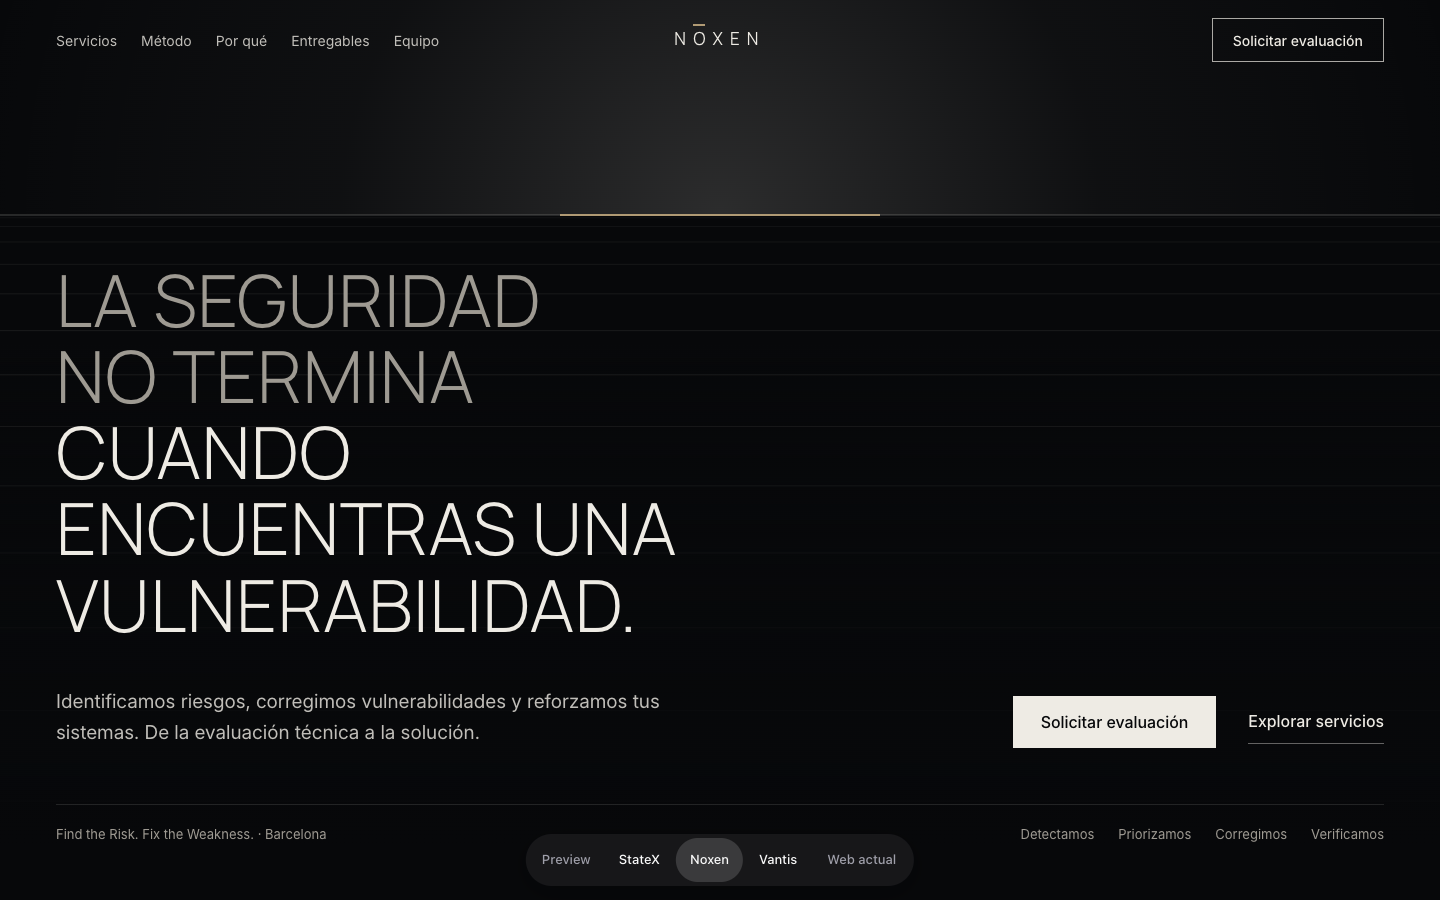
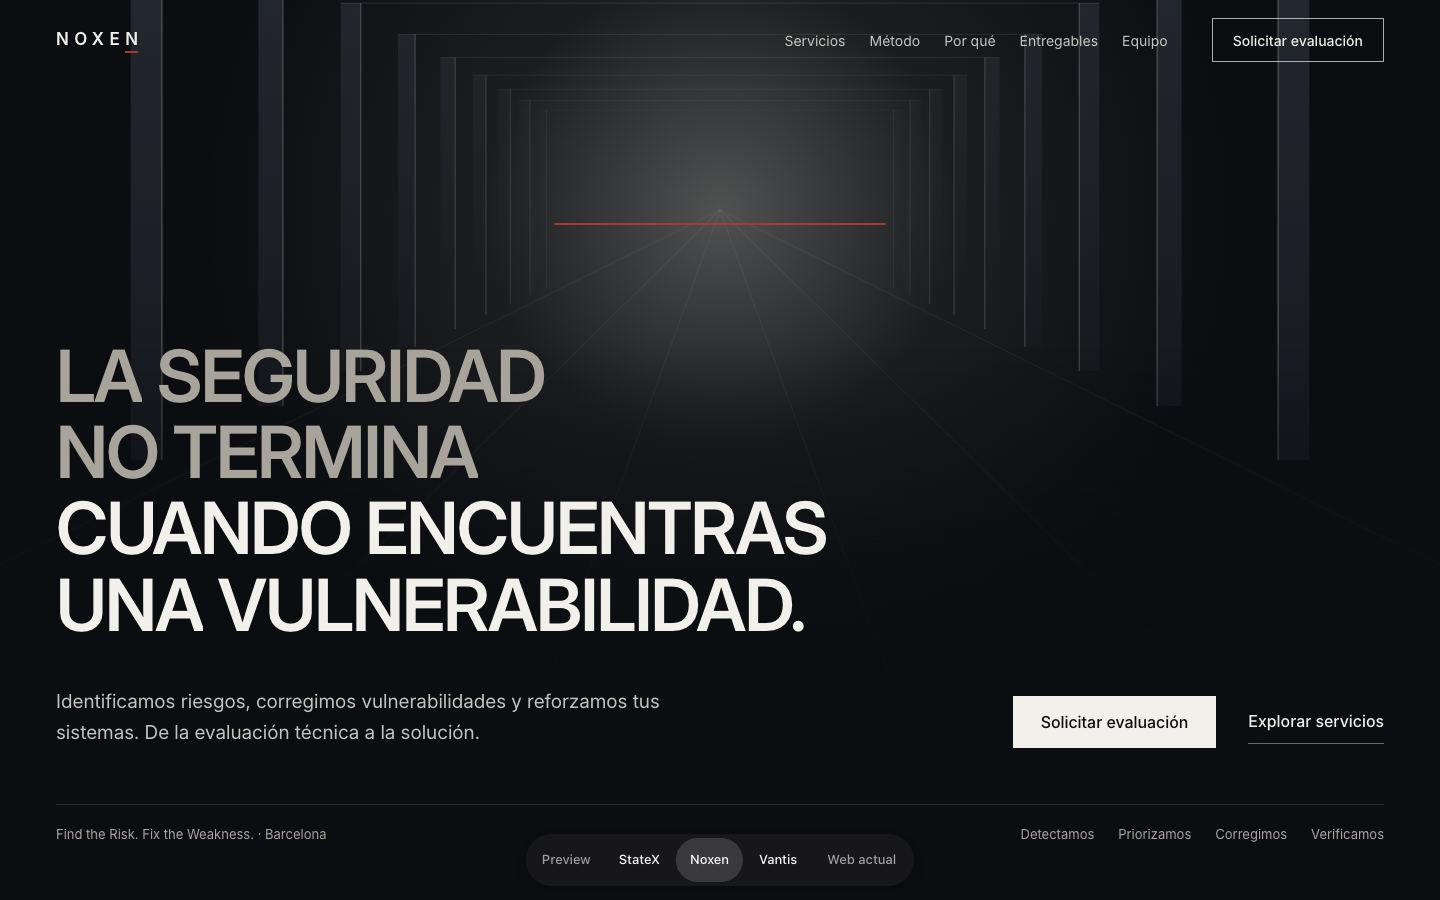
Previews de identidad con el diseño de StateX: solo cambia el nombre
Noxen y Vantis dejan de tener paleta, fuente, cabecera y escena propias;
el logotipo aplica el tratamiento de STATEX a cada nombre.

diff --git a/app/_site/Header.tsx b/app/_site/Header.tsx
@@ -6,20 +6,18 @@ import { brand as statex, cta, nav } from "./content";
 import { Wordmark, caps, focus } from "./ui";
 
 // `logo` llega ya renderizado desde el servidor (Shell): así este componente de cliente no contiene otros nombres de marca.
-type HeaderBrand = { logo: ReactNode; name: string; tagline: string; layout: "standard" | "centered" | "ledger" };
+type HeaderBrand = { logo: ReactNode; name: string };
 
 /**
  * Transparente sobre el hero; al hacer scroll pasa a Obsidiana sólida con filete inferior (sin cristal ni desenfoque).
  * `base` = "" en la home (anclas en la misma página) y "/" en las páginas interiores (vuelven a la home).
- * `brand` solo lo pasan las previews de /preview: "centered" centra el logotipo entre navegación y CTA;
- * "ledger" añade una franja superior con ubicación y tagline, que se recoge al hacer scroll.
+ * `brand` solo lo pasan las previews de /preview: cambia el logotipo y el nombre accesible, nada más.
  */
 export function Header({ base = "", items = nav, brand }: { base?: "" | "/"; items?: { href: string; label: string }[]; brand?: HeaderBrand }) {
   const [solid, setSolid] = useState(false);
   const [open, setOpen] = useState(false);
   const panelId = useId();
   const btn = useRef<HTMLButtonElement>(null);
-  const layout = brand?.layout ?? "standard";
 
   useEffect(() => {
     const onScroll = () => setSolid(window.scrollY > 24);
@@ -49,13 +47,13 @@ export function Header({ base = "", items = nav, brand }: { base?: "" | "/"; ite
   const link = `relative inline-flex min-h-11 items-center px-3 text-[14px] text-(--h-ivory)/80 transition-colors hover:text-(--h-ivory) after:absolute after:inset-x-3 after:bottom-2.5 after:h-px after:origin-left after:scale-x-0 after:bg-(--h-red) after:transition-transform hover:after:scale-x-100 motion-reduce:after:transition-none ${focus}`;
 
   const logo = (
-    <a href={base || "#inicio"} aria-label={`${brand?.name ?? statex.name}, inicio`} className={`text-[15px] sm:text-[17px] ${layout === "centered" ? "lg:justify-self-center" : ""} ${focus}`}>
+    <a href={base || "#inicio"} aria-label={`${brand?.name ?? statex.name}, inicio`} className={`text-[15px] sm:text-[17px] ${focus}`}>
       {brand?.logo ?? <Wordmark />}
     </a>
   );
   const links = (
-    <nav aria-label="Principal" className={layout === "centered" ? "hidden lg:block" : "ml-auto hidden lg:block"}>
-      <ul className={`m-0 flex list-none p-0 ${layout === "centered" ? "-ml-3" : ""}`}>
+    <nav aria-label="Principal" className="ml-auto hidden lg:block">
+      <ul className="m-0 flex list-none p-0">
         {items.map((n) => (
           <li key={n.href}>
             <a href={href(n.href)} className={link}>{n.label}</a>
@@ -65,7 +63,7 @@ export function Header({ base = "", items = nav, brand }: { base?: "" | "/"; ite
     </nav>
   );
   const actions = (
-    <div className={`ml-auto flex items-center gap-2 sm:gap-4 ${layout === "centered" ? "lg:ml-0 lg:justify-self-end" : "lg:ml-4"}`}>
+    <div className="ml-auto flex items-center gap-2 sm:gap-4 lg:ml-4">
       <a
         href={href("#contacto")}
         className={`inline-flex min-h-11 items-center whitespace-nowrap border border-(--h-ivory)/70 px-3 text-[13px] font-medium transition-colors hover:border-(--h-ivory) hover:bg-(--h-ivory) hover:text-(--h-ink) motion-reduce:transition-none sm:px-5 sm:text-[14px] ${focus}`}
@@ -92,32 +90,10 @@ export function Header({ base = "", items = nav, brand }: { base?: "" | "/"; ite
         filled ? "border-(--h-line) bg-(--h-ink)" : "border-transparent bg-transparent"
       }`}
     >
-      {layout === "ledger" && brand && (
-        <div hidden={filled} className="border-b border-(--h-line) max-lg:hidden">
-          <p className="mx-auto m-0 flex h-9 w-full max-w-[1440px] items-center justify-between px-14 text-[13px] text-(--h-titanium)">
-            <span>Barcelona · Consultoría de ciberseguridad y desarrollo seguro</span>
-            <span>{brand.tagline}</span>
-          </p>
-        </div>
-      )}
-      <div
-        className={`mx-auto flex h-18 w-full max-w-[1440px] items-center gap-2 px-4 sm:h-20 sm:gap-4 sm:px-8 lg:px-14 ${
-          layout === "centered" ? "lg:grid lg:grid-cols-[1fr_auto_1fr]" : ""
-        }`}
-      >
-        {layout === "centered" ? (
-          <>
-            {links}
-            {logo}
-            {actions}
-          </>
-        ) : (
-          <>
-            {logo}
-            {links}
-            {actions}
-          </>
-        )}
+      <div className="mx-auto flex h-18 w-full max-w-[1440px] items-center gap-2 px-4 sm:h-20 sm:gap-4 sm:px-8 lg:px-14">
+        {logo}
+        {links}
+        {actions}
       </div>
 
       <div id={panelId} hidden={!open} className="fixed inset-x-0 bottom-0 top-18 overflow-y-auto bg-(--h-ink) sm:top-20 lg:hidden">

diff --git a/app/_site/identities/BrandMark.tsx b/app/_site/identities/BrandMark.tsx
@@ -1,25 +1,20 @@
 import { Wordmark, type IdentityKey } from "../ui";
 
-// Logotipos de las previews. Solo lo importan componentes de servidor (Shell, Report): así los nombres
-// de marca en estudio no viajan en el JavaScript público de la web de producción. El acento es var(--h-red).
+// Logotipos de las previews, con el mismo tratamiento que STATEX: mayúsculas, interletrado amplio y la línea
+// roja bajo la última letra. Solo lo importan componentes de servidor (Shell, Report), así los nombres en
+// estudio no viajan en el JavaScript público de la web de producción.
+const NAMES: Record<Exclude<IdentityKey, "statex">, string> = { noxen: "Noxe", vantis: "Vanti" };
+const LAST: Record<Exclude<IdentityKey, "statex">, string> = { noxen: "N", vantis: "S" };
+
 export function BrandMark({ className = "", identity = "statex" }: { className?: string; identity?: IdentityKey }) {
-  if (identity === "noxen")
-    return (
-      <span className={`inline-flex items-baseline font-normal uppercase leading-none tracking-[0.42em] [font-family:var(--h-display)] ${className}`}>
-        N
-        <span className="relative">
-          O
-          <span aria-hidden="true" className="absolute -top-[0.34em] left-0 right-[0.42em] h-[0.08em] min-h-px bg-(--h-red)" />
-        </span>
-        XEN
+  if (identity === "statex") return <Wordmark className={className} />;
+  return (
+    <span className={`inline-flex items-baseline font-semibold uppercase leading-none tracking-[0.32em] ${className}`}>
+      {NAMES[identity]}
+      <span className="relative">
+        {LAST[identity]}
+        <span aria-hidden="true" className="absolute -bottom-[0.28em] left-0 right-[0.32em] h-[0.09em] min-h-px bg-(--h-red)" />
       </span>
-    );
-  if (identity === "vantis")
-    return (
-      <span className={`inline-flex items-baseline gap-[0.12em] text-[1.18em] font-medium leading-none tracking-[-0.01em] [font-family:var(--h-display)] ${className}`}>
-        Vantis
-        <span aria-hidden="true" className="inline-block size-[0.2em] min-h-[3px] min-w-[3px] bg-(--h-red)" />
-      </span>
-    );
-  return <Wordmark className={className} />;
+    </span>
+  );
 }

diff --git a/app/_site/Hero.tsx b/app/_site/Hero.tsx
@@ -4,7 +4,6 @@ import { useRef } from "react";
 import { motion, useReducedMotion, useScroll, useTransform } from "motion/react";
 import { cta, hero, services } from "./content";
 import { display, focus, wrap } from "./ui";
-import { HorizonScene, LedgerScene } from "./HeroScenes";
 
 // Escena: una nave de pórticos en perspectiva central (un solo punto de fuga), como un pasillo
 // de infraestructura visto de frente. Al fondo, la línea roja: el umbral que StateX vigila.
@@ -88,16 +87,14 @@ type HeroProps = {
   body?: string;
   // Franja inferior: texto a la izquierda y lista breve a la derecha.
   strip?: { lead: string; items: string[] };
-  scene?: "corridor" | "horizon" | "ledger";
   size?: string; // tamaño del titular (clases de Tailwind)
 };
 
-/** Sin props es el hero de producción; las previews de identidad cambian copy, franja y escena. */
+/** Sin props es el hero de producción; las previews de identidad cambian el copy y la franja. */
 export function Hero({
   lines = hero.lines,
   body = hero.body,
   strip = { lead: hero.audience, items: services.map((s) => s.short) },
-  scene = "corridor",
   size = "text-[clamp(2.1rem,5.6vw,5.75rem)]",
 }: HeroProps = {}) {
   const reduce = !!useReducedMotion();
@@ -113,7 +110,7 @@ export function Hero({
       <motion.div
         className="absolute inset-0 -z-10 max-sm:bottom-auto max-sm:h-[56svh] max-sm:[mask-image:linear-gradient(to_bottom,black_65%,transparent)]"
         style={reduce ? undefined : { scale, opacity: dim }}>
-        {scene === "horizon" ? <HorizonScene reduce={reduce} /> : scene === "ledger" ? <LedgerScene reduce={reduce} /> : <Scene reduce={reduce} />}
+        <Scene reduce={reduce} />
       </motion.div>
       {/* Velo inferior para que el texto se lea sobre la escena */}
       <div aria-hidden="true" className="absolute inset-0 -z-10 bg-[linear-gradient(to_top,var(--h-ink)_6%,color-mix(in_srgb,var(--h-ink)_78%,transparent)_34%,transparent_62%)]" />

diff --git a/app/_site/identities/vantis.ts b/app/_site/identities/vantis.ts
@@ -1,34 +1,4 @@
-import { Newsreader } from "next/font/google";
 import type { Identity } from "./types";
 
-// C · Vantis — Corporate Intelligence. Nombre de fantasía; su lectura («vantage», anticipación) es una
-// interpretación de marca, no una definición. Azul noche, gris piedra, blanco y titulares editoriales con serifa.
-const newsreader = Newsreader({ subsets: ["latin", "latin-ext"], axes: ["opsz"], variable: "--font-vantis", display: "swap" });
-
-export const vantis: Identity = {
-  key: "vantis",
-  name: "Vantis",
-  tagline: "Security Beyond Detection.",
-  direction: "Corporate Intelligence",
-  concept: "Anticipación, visión estratégica y confianza.",
-  fontClass: newsreader.variable,
-  tokens: {
-    "--h-ink": "#0C1524", // azul noche
-    "--h-graphite": "#142036",
-    "--h-ivory": "#F4F3EF",
-    "--h-titanium": "#A7A9AC", // gris piedra: 6,8:1 sobre #142036
-    "--h-red": "#6F9BD8", // acento: azul señal (solo líneas, nunca texto)
-    "--h-red-text": "#F08C82",
-    "--h-line": "rgba(244,243,239,0.13)",
-    "--h-stone": "#545A63",
-    "--h-paper-line": "rgba(12,21,36,0.14)",
-    "--h-display": "var(--font-vantis)",
-    "--h-display-weight": "400",
-    "--h-title-weight": "500",
-    "--h-display-case": "none",
-    "--h-display-tracking": "-0.015em",
-  } as Identity["tokens"],
-  themeColor: "#0C1524",
-  hero: "ledger",
-  header: "ledger",
-};
+// C · Vantis: nombre de fantasía; su lectura («vantage», anticipación) es una interpretación de marca, no una definición.
+export const vantis: Identity = { key: "vantis", name: "Vantis", tagline: "Security Beyond Detection.", concept: "Anticipación, visión estratégica y confianza." };

diff --git a/app/_site/identities/noxen.ts b/app/_site/identities/noxen.ts
@@ -1,31 +1,4 @@
-import { Manrope } from "next/font/google";
 import type { Identity } from "./types";
 
-// B · Noxen — Dark Precision. Nombre de fantasía inspirado en «nox» (noche, en latín); la terminación
-// «-en» es una decisión creativa. Negro más profundo, blanco cálido y un acento metálico (bronce) muy contenido.
-const manrope = Manrope({ subsets: ["latin", "latin-ext"], variable: "--font-noxen", display: "swap" });
-
-export const noxen: Identity = {
-  key: "noxen",
-  name: "Noxen",
-  tagline: "Find the Risk. Fix the Weakness.",
-  direction: "Dark Precision",
-  concept: "Discreción, inteligencia, protección y precisión.",
-  fontClass: manrope.variable,
-  tokens: {
-    "--h-ink": "#07080A",
-    "--h-graphite": "#15171B",
-    "--h-ivory": "#EEEBE4",
-    "--h-titanium": "#9E9A92", // 6,4:1 sobre grafito
-    "--h-red": "#B09A74", // acento: bronce satinado (solo líneas, nunca texto)
-    "--h-line": "rgba(238,235,228,0.12)",
-    "--h-display": "var(--font-noxen)",
-    "--h-display-weight": "300",
-    "--h-title-weight": "500",
-    "--h-display-case": "uppercase",
-    "--h-display-tracking": "0.01em",
-  } as Identity["tokens"],
-  themeColor: "#07080A",
-  hero: "horizon",
-  header: "centered",
-};
+// B · Noxen: nombre de fantasía inspirado en «nox» (noche, en latín); la terminación «-en» es una decisión creativa.
+export const noxen: Identity = { key: "noxen", name: "Noxen", tagline: "Find the Risk. Fix the Weakness.", concept: "Discreción, inteligencia, protección y precisión." };

diff --git a/app/_site/Shell.tsx b/app/_site/Shell.tsx
@@ -88,8 +88,8 @@ export function Shell({
 }) {
   return (
     <div
-      style={identity ? { ...tokens, ...identity.tokens } : tokens}
-      className={`${inter.variable} ${identity?.fontClass ?? ""} min-h-dvh overflow-x-clip bg-(--h-ink) font-(family-name:--h-sans) text-(--h-ivory) antialiased selection:bg-(--h-red) selection:text-(--h-ivory)`}
+      style={tokens}
+      className={`${inter.variable} min-h-dvh overflow-x-clip bg-(--h-ink) font-(family-name:--h-sans) text-(--h-ivory) antialiased selection:bg-(--h-red) selection:text-(--h-ivory)`}
     >
       <a href="#contenido" className="sr-only z-[60] bg-(--h-ivory) px-4 py-3 text-(--h-ink) focus:not-sr-only focus:fixed focus:left-4 focus:top-4">
         Saltar al contenido
@@ -97,7 +97,7 @@ export function Shell({
       <Header
         base={base}
         items={navItems}
-        brand={identity ? { logo: <BrandMark identity={identity.key} />, name: identity.name, tagline: identity.tagline, layout: identity.header } : undefined}
+        brand={identity ? { logo: <BrandMark identity={identity.key} />, name: identity.name } : undefined}
       />
       <main id="contenido">{children}</main>
       <Footer base={base} identity={identity} items={navItems} />

diff --git a/app/_site/identities/types.ts b/app/_site/identities/types.ts
@@ -1,20 +1,10 @@
-import type { CSSProperties } from "react";
 import type { IdentityKey } from "../ui";
 
-// Identidad de marca para las previews de /preview/<clave>. Comparten contenido, componentes y
-// lógica comercial con la web pública; solo cambian nombre, tokens, tipografía, cabecera y escena del hero.
-// La web de producción (/) no usa nada de esta carpeta.
+// Nombre de marca para las previews de /preview/<clave>. Las tres usan el diseño de StateX tal cual
+// (decisión 2026-10-26: comparar solo el nombre); cambian logotipo, textos con la marca y tagline.
 export type Identity = {
   key: IdentityKey;
   name: string;
   tagline: string;
-  direction: string; // nombre de la dirección visual
   concept: string; // idea de la marca, en una línea
-  // Clases de next/font (variables CSS de las familias que usa la identidad).
-  fontClass: string;
-  // Sustituye tokens de app/_site/ui.tsx (--h-ink, --h-red como acento único, --h-display…).
-  tokens: CSSProperties;
-  themeColor: string;
-  hero: "corridor" | "horizon" | "ledger";
-  header: "standard" | "centered" | "ledger";
 };

diff --git a/app/preview/statex/page.tsx b/app/preview/statex/page.tsx
@@ -1,12 +1,11 @@
-import type { Metadata, Viewport } from "next";
+import type { Metadata } from "next";
 import { EvolvedHome } from "../../_site/EvolvedHome";
 import { statex as identity } from "../../_site/identities/statex";
 
 export const metadata: Metadata = {
-  title: { absolute: `${identity.name} · ${identity.direction} (preview)` },
+  title: { absolute: `${identity.name} (preview)` },
   description: `Preview interna de identidad: ${identity.name}, ${identity.tagline}`,
 };
-export const viewport: Viewport = { themeColor: identity.themeColor, colorScheme: "dark" };
 
 export default function Preview() {
   return <EvolvedHome identity={identity} />;

diff --git a/app/preview/vantis/page.tsx b/app/preview/vantis/page.tsx
@@ -1,12 +1,11 @@
-import type { Metadata, Viewport } from "next";
+import type { Metadata } from "next";
 import { EvolvedHome } from "../../_site/EvolvedHome";
 import { vantis as identity } from "../../_site/identities/vantis";
 
 export const metadata: Metadata = {
-  title: { absolute: `${identity.name} · ${identity.direction} (preview)` },
+  title: { absolute: `${identity.name} (preview)` },
   description: `Preview interna de identidad: ${identity.name}, ${identity.tagline}`,
 };
-export const viewport: Viewport = { themeColor: identity.themeColor, colorScheme: "dark" };
 
 export default function Preview() {
   return <EvolvedHome identity={identity} />;

diff --git a/app/preview/noxen/page.tsx b/app/preview/noxen/page.tsx
@@ -1,12 +1,11 @@
-import type { Metadata, Viewport } from "next";
+import type { Metadata } from "next";
 import { EvolvedHome } from "../../_site/EvolvedHome";
 import { noxen as identity } from "../../_site/identities/noxen";
 
 export const metadata: Metadata = {
-  title: { absolute: `${identity.name} · ${identity.direction} (preview)` },
+  title: { absolute: `${identity.name} (preview)` },
   description: `Preview interna de identidad: ${identity.name}, ${identity.tagline}`,
 };
-export const viewport: Viewport = { themeColor: identity.themeColor, colorScheme: "dark" };
 
 export default function Preview() {
   return <EvolvedHome identity={identity} />;

diff --git a/app/_site/identities/statex.ts b/app/_site/identities/statex.ts
@@ -1,15 +1,4 @@
 import type { Identity } from "./types";
 
-// A · StateX — Executive Minimal. La marca actual: misma paleta, misma tipografía, misma escena.
-export const statex: Identity = {
-  key: "statex",
-  name: "StateX",
-  tagline: "Secure by Design.",
-  direction: "Executive Minimal",
-  concept: "Estructura, control, ingeniería y precisión.",
-  fontClass: "",
-  tokens: {},
-  themeColor: "#0B0D10",
-  hero: "corridor",
-  header: "standard",
-};
+// A · StateX: la marca actual.
+export const statex: Identity = { key: "statex", name: "StateX", tagline: "Secure by Design.", concept: "Estructura, control, ingeniería y precisión." };

diff --git a/app/_site/EvolvedHome.tsx b/app/_site/EvolvedHome.tsx
@@ -86,7 +86,6 @@ export function EvolvedHome({ identity }: { identity: Identity }) {
         lines={e.hero.lines}
         body={e.hero.body}
         strip={{ lead: `${identity.tagline} · Barcelona`, items: e.hero.claim }}
-        scene={identity.hero}
         size="text-[clamp(1.75rem,5vw,5.25rem)]"
       />
 
